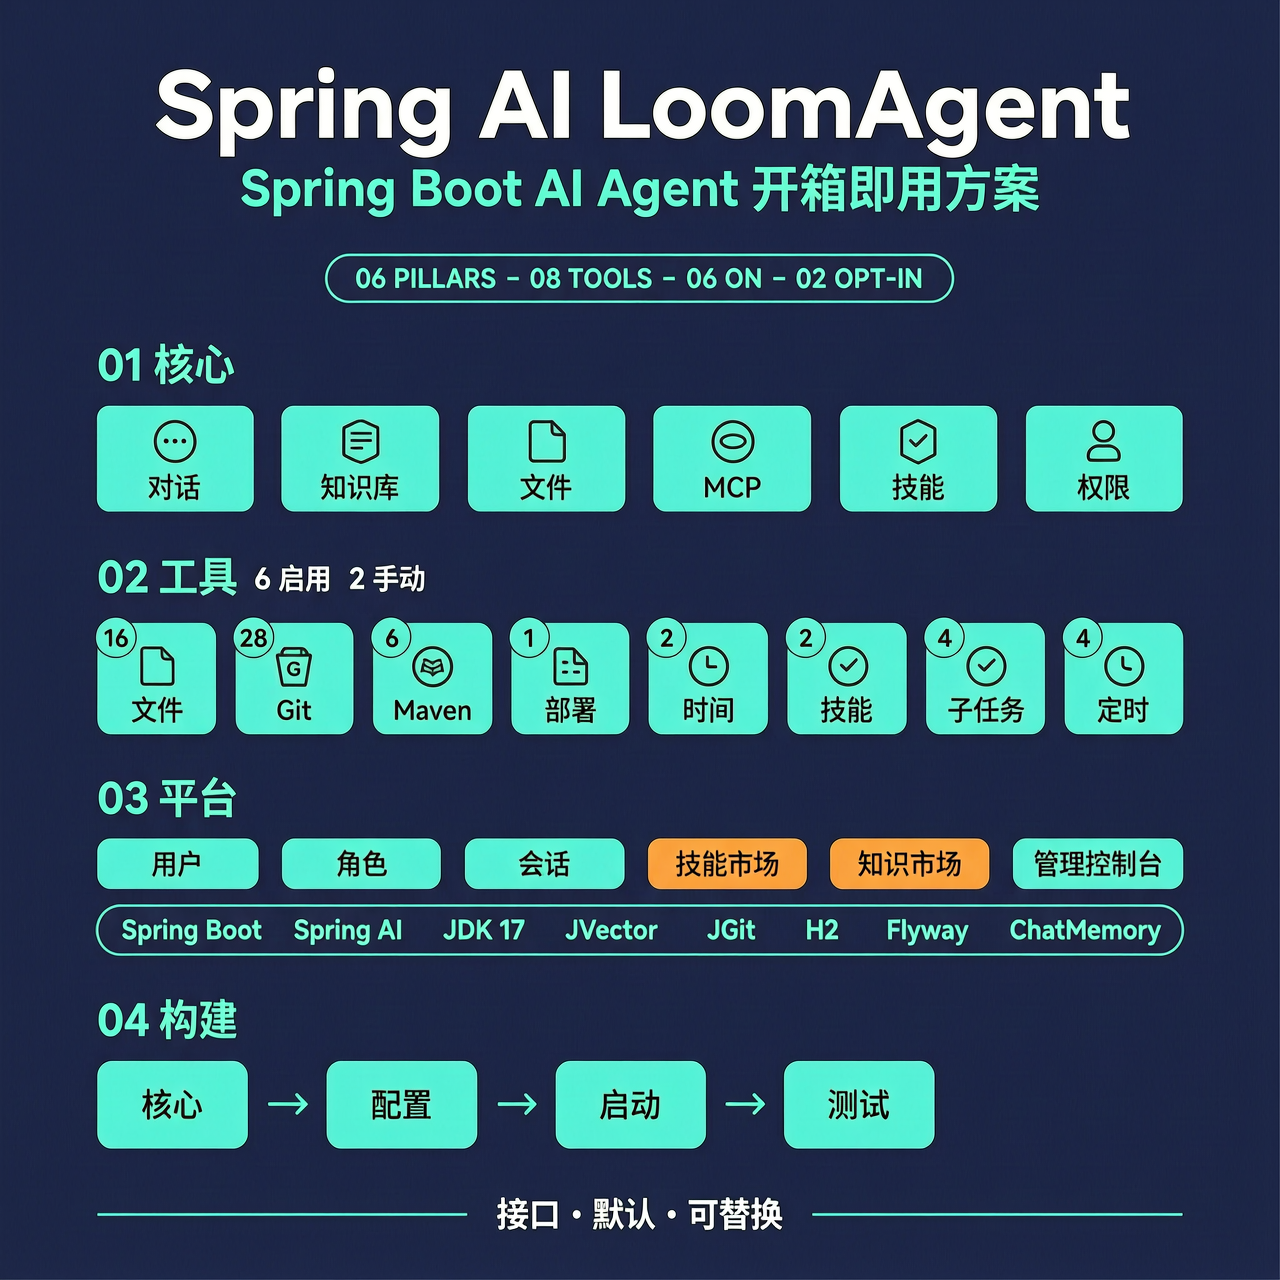
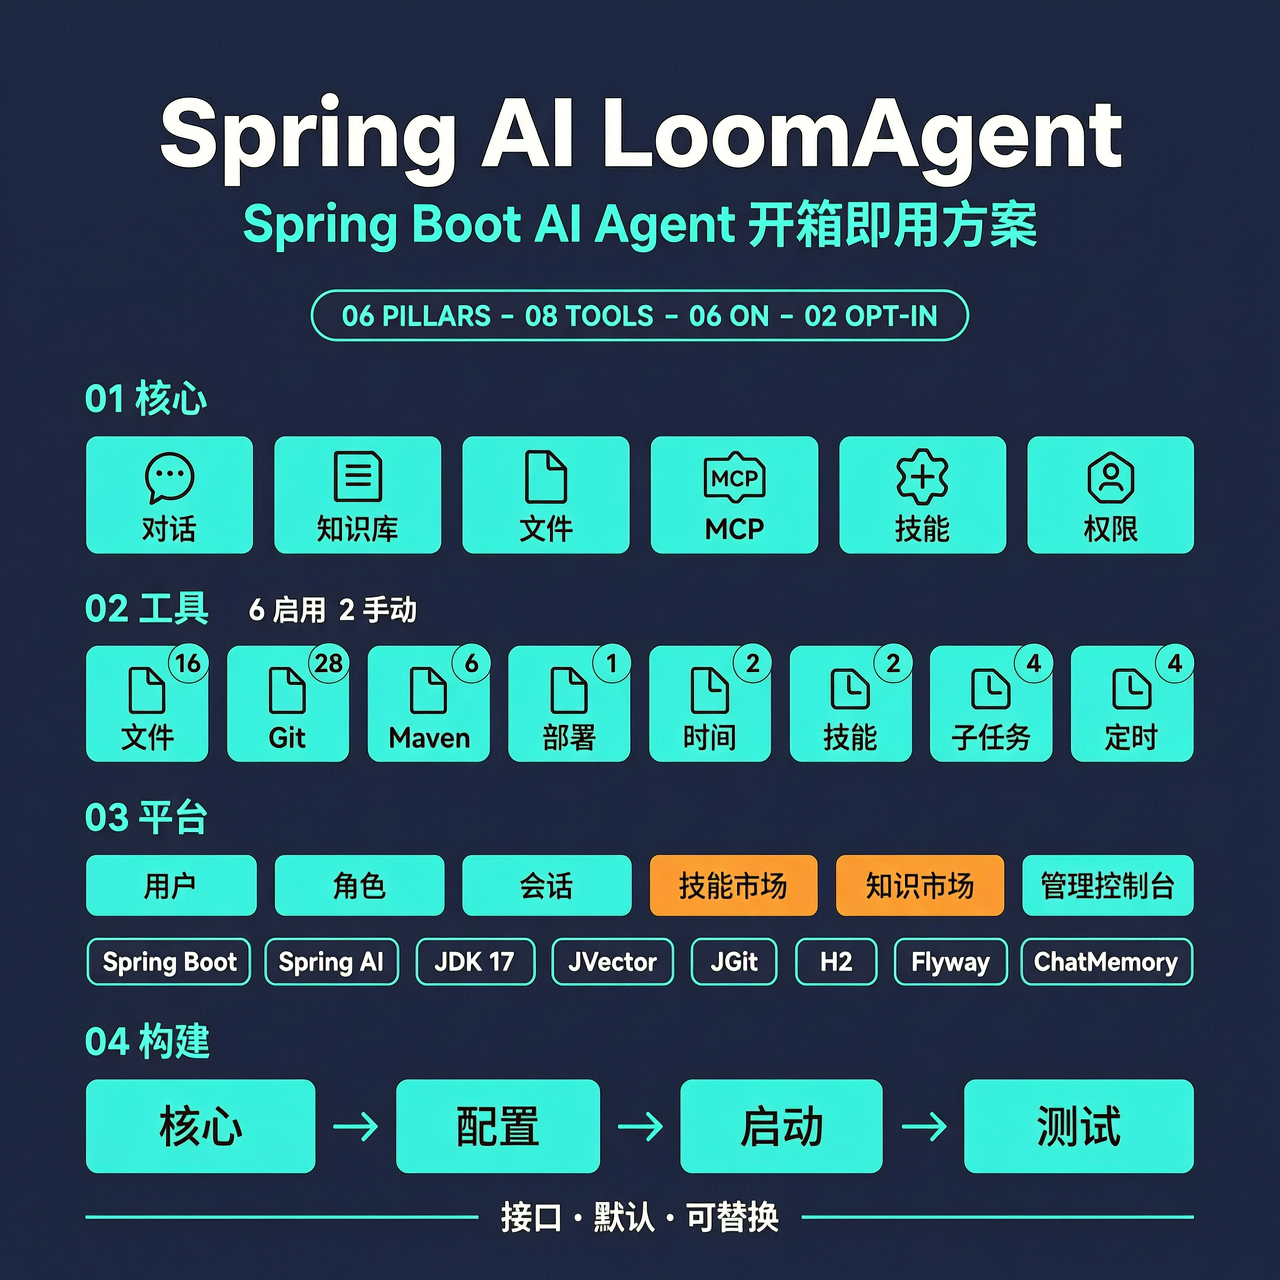
docs: README 分层展示对齐图片布局 + 重新生成概览图
- README.md/zh-CN.md 改为三层结构:
  - 6 Pillars (核心能力)
  - Platform (平台功能：双市场 + 管理控制台)
  - Advanced (高级特性：子任务/定时/多模态)
- 重新生成 project-overview-en.png 和 project-overview-zh.png

diff --git a/README.zh-CN.md b/README.zh-CN.md
@@ -22,7 +22,9 @@
 
 ## 功能特性
 
-> **核心能力**：💬 流式对话 · 🖼 多模态图文 · 📚 RAG 知识库 · 🔧 MCP 工具 · 🧠 技能市场 · 📦 知识市场 · 🧩 子任务 · ⏰ 定时任务 · 🛡 RBAC 权限 · 🎛 管理控制台 —— 引一个依赖，开箱即用。
+> **6 大核心**：💬 对话 · 📚 知识库 ·  文件 · 🔧 MCP · 🧠 技能 · 🛡 权限
+> **平台功能**：🧠 技能市场 ·  知识市场 · 🎛 管理控制台
+> **高级特性**：🧩 子任务 · ⏰ 定时任务 · 🖼 多模态 —— 引一个依赖，开箱即用。
 
 - **💬 流式对话** — SSE 多轮聊天，推理过程折叠展示，消息复制/下载；支持图片 + 文档**多模态混合输入**
 - **📚 RAG 知识库** — 多知识库管理，Tika 解析 + 向量化，内置 JVector 本地向量库（可替换为任意 Spring AI 向量存储）

diff --git a/README.md b/README.md
@@ -22,7 +22,9 @@
 
 ## Features
 
-> **Core capabilities**: 💬 Streaming chat · 🖼 Multimodal · 📚 RAG · 🔧 MCP tools · 🧠 Skill market · 📦 Knowledge market · 🧩 Sub-tasks · ⏰ Scheduled tasks · 🛡 RBAC · 🎛 Admin console — one dependency, batteries included.
+> **6 Pillars**: 💬 Chat ·  Knowledge · 📁 Files · 🔧 MCP · 🧠 Skill · 🛡 RBAC
+> **Platform**: 🧠 Skill Market ·  Knowledge Market · 🎛 Admin Console
+> **Advanced**: 🧩 Sub-tasks · ⏰ Scheduled tasks · 🖼 Multimodal — one dependency, batteries included.
 
 - **💬 Streaming Chat** — SSE multi-turn, collapsible reasoning, message copy/download; **multimodal** image + document mixed input
 - **📚 RAG Knowledge Base** — Multi-KB management, Tika parsing + vectorization, built-in JVector local store (swap in any Spring AI vector store)
